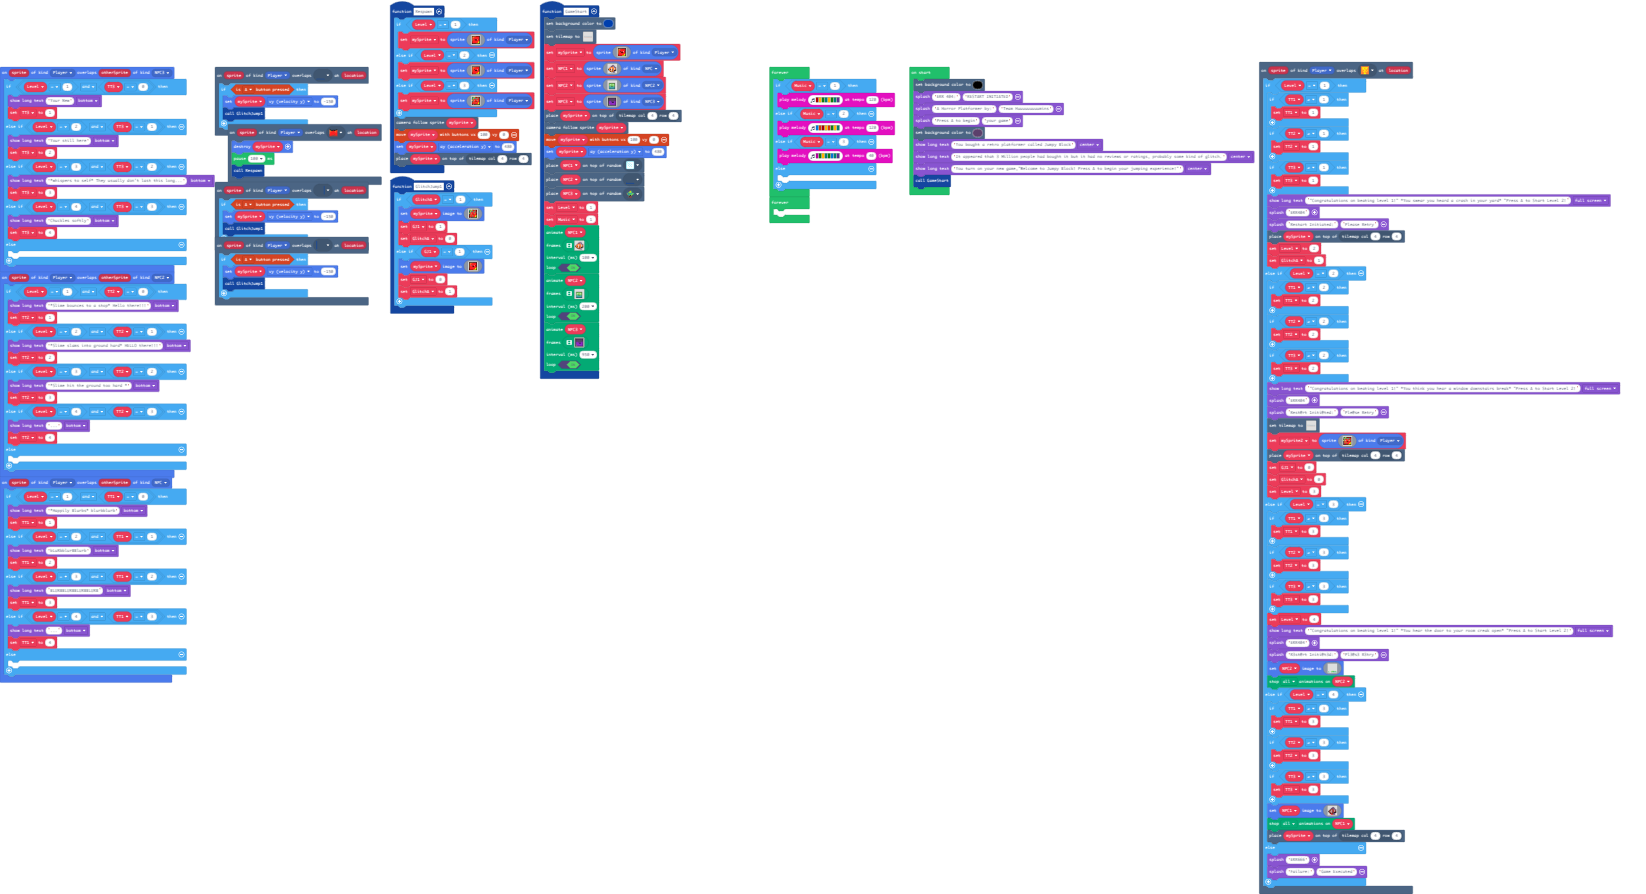
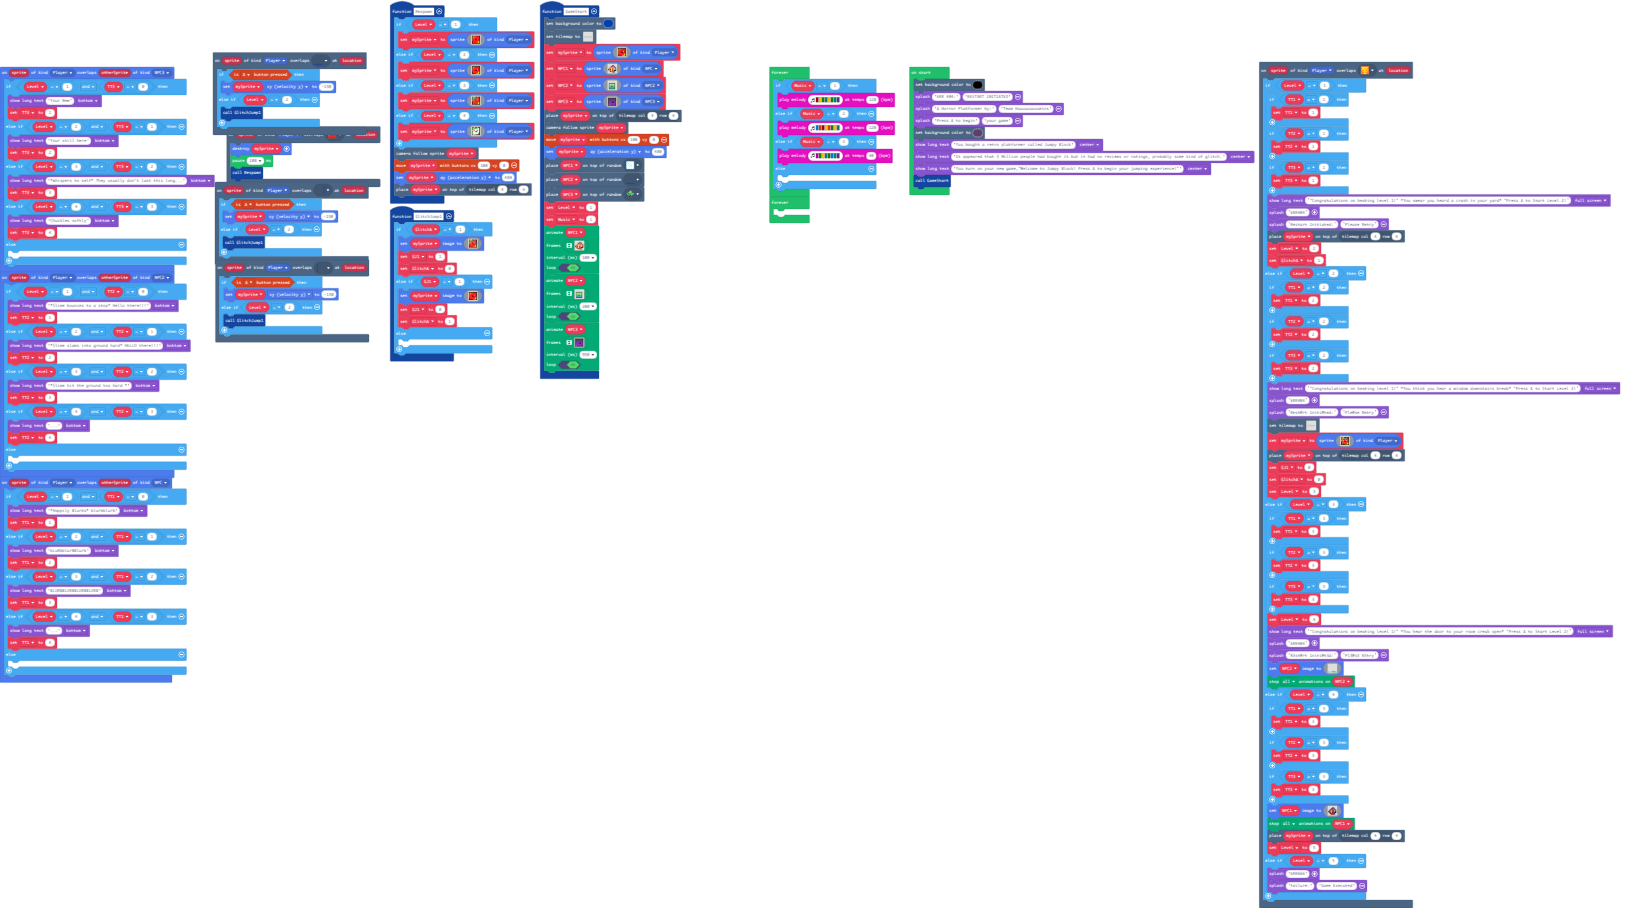
Update main.blocks, main.ts, images.g.jres, images.g.ts

Changed region(s): [[0.0, 0.0, 0.4338, 0.7852], [0.4648, 0.0604, 0.9915, 0.9664]]

diff --git a/main.ts b/main.ts
@@ -34,7 +34,7 @@ scene.onOverlapTile(SpriteKind.Player, assets.tile`myTile0`, function (sprite, l
         game.splash("ERR404")
         game.splash("Rest@rt 1niti@ted:", "Ple@se Retry")
         tiles.setTilemap(tilemap`level2`)
-        mySprite2 = sprites.create(assets.image`myImage1`, SpriteKind.Player)
+        mySprite = sprites.create(assets.image`myImage1`, SpriteKind.Player)
         tiles.placeOnTile(mySprite, tiles.getTileLocation(4, 4))
         GJ1 = 0
         GlitchA = 0
@@ -68,7 +68,8 @@ scene.onOverlapTile(SpriteKind.Player, assets.tile`myTile0`, function (sprite, l
         NPC1.setImage(assets.image`myImage`)
         animation.stopAnimation(animation.AnimationTypes.All, NPC1)
         tiles.placeOnTile(mySprite, tiles.getTileLocation(4, 4))
-    } else {
+        Level = 5
+    } else if (Level == 5) {
         game.splash("ERR666")
         game.splash("Failure:", "Game Executed")
     }
@@ -93,6 +94,7 @@ sprites.onOverlap(SpriteKind.Player, SpriteKind.NPC, function (sprite, otherSpri
 scene.onOverlapTile(SpriteKind.Player, assets.tile`tile14`, function (sprite, location) {
     if (controller.A.isPressed()) {
         mySprite.vy = -150
+    } else if (Level == 2) {
         GlitchJump1()
     }
 })
@@ -138,6 +140,7 @@ sprites.onOverlap(SpriteKind.Player, SpriteKind.NPC3, function (sprite, otherSpr
 scene.onOverlapTile(SpriteKind.Player, assets.tile`tile11`, function (sprite, location) {
     if (controller.A.isPressed()) {
         mySprite.vy = -150
+    } else if (Level == 2) {
         GlitchJump1()
     }
 })
@@ -148,6 +151,8 @@ function Respawn () {
         mySprite = sprites.create(assets.image`myImage0`, SpriteKind.Player)
     } else if (Level == 3) {
         mySprite = sprites.create(assets.image`myImage1`, SpriteKind.Player)
+    } else if (Level == 4) {
+        mySprite = sprites.create(assets.image`myImage5`, SpriteKind.Player)
     }
     scene.cameraFollowSprite(mySprite)
     controller.moveSprite(mySprite, 100, 0)
@@ -157,6 +162,7 @@ function Respawn () {
 scene.onOverlapTile(SpriteKind.Player, assets.tile`tile5`, function (sprite, location) {
     if (controller.A.isPressed()) {
         mySprite.vy = -150
+    } else if (Level == 2) {
         GlitchJump1()
     }
 })
@@ -204,6 +210,8 @@ function GlitchJump1 () {
         mySprite.setImage(assets.image`myImage0`)
         GJ1 = 0
         GlitchA = 1
+    } else {
+    	
     }
 }
 let Music = 0
@@ -211,7 +219,6 @@ let NPC3: Sprite = null
 let NPC1: Sprite = null
 let NPC2: Sprite = null
 let GJ1 = 0
-let mySprite2: Sprite = null
 let GlitchA = 0
 let mySprite: Sprite = null
 let TT3 = 0

diff --git a/images.g.ts b/images.g.ts
@@ -263,6 +263,25 @@ f 2 2 2 2 2 6 2 2 2 2 2 5 5 5 f
 f 2 2 2 2 2 7 2 2 5 5 5 5 5 5 f 
 f f f 6 f f f f f f f f f f f f 
 `;
+            case "image14":
+            case "myImage5":return img`
+6 f f 6 7 7 f f f f f 6 f f f f 
+7 6 7 7 d d 7 d 1 1 1 1 1 7 1 f 
+7 6 d d 7 7 6 6 7 7 6 1 1 1 1 f 
+f 6 d 7 6 6 1 6 1 1 6 7 6 1 1 f 
+f d 6 7 1 6 1 1 7 1 1 1 1 1 1 f 
+f 7 7 1 1 1 1 1 1 6 6 1 1 1 7 f 
+7 d 7 1 2 2 1 1 1 7 2 2 1 1 6 f 
+7 d 1 6 1 1 1 1 1 1 7 1 1 1 1 f 
+f d 1 7 1 1 1 f f f 1 6 1 1 1 f 
+f 6 1 1 7 1 1 1 1 1 1 1 1 1 1 f 
+f d 1 1 7 1 1 1 1 7 1 1 1 1 b f 
+f 1 7 1 1 1 7 1 1 1 1 1 1 b b f 
+f 1 6 1 1 1 1 1 1 1 1 1 b b b f 
+f 1 1 1 1 1 6 1 1 1 1 1 b b b f 
+f 1 1 1 1 1 7 1 1 b b b b b b f 
+f f f 6 f f f f f f f f f f f f 
+`;
         }
         return null;
     })
